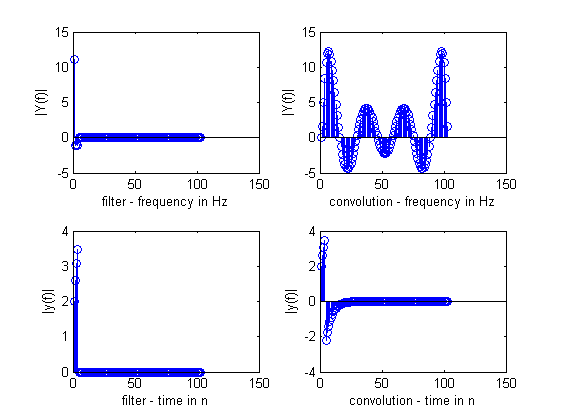
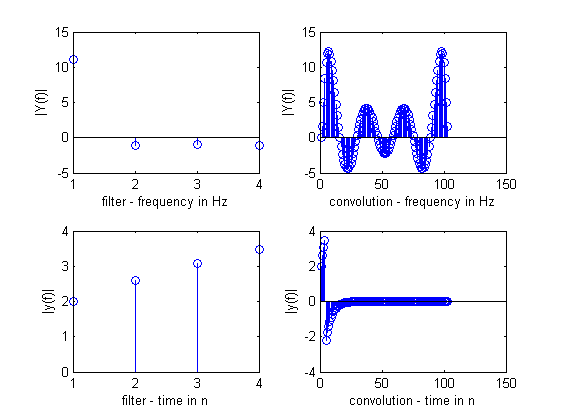
fix lab04 filter point problem

diff --git a/Lab/Lab04/lab04_1.m b/Lab/Lab04/lab04_1.m
@@ -1,15 +1,16 @@
 clear();
-n = input('Enter the number of term of h[n] = ');
+n = input('How many point of h[n] would like to compute?');
 
 x = [2 3 4 5];
 
-a = [1];
+a = [1 -0.8]; % denominator coefficient
+b = [1 -1];   % numerator coefficient
 h(1) = 1;
 for i = 2 : n
     h(i) = -1/4*0.8^(i-1);
 end
 
-fout = filter(h, a, x);
+fout = filter(b, a, x);
 cout = conv(h, x);
 FOUT = fft(fout);
 COUT = fft(cout);
